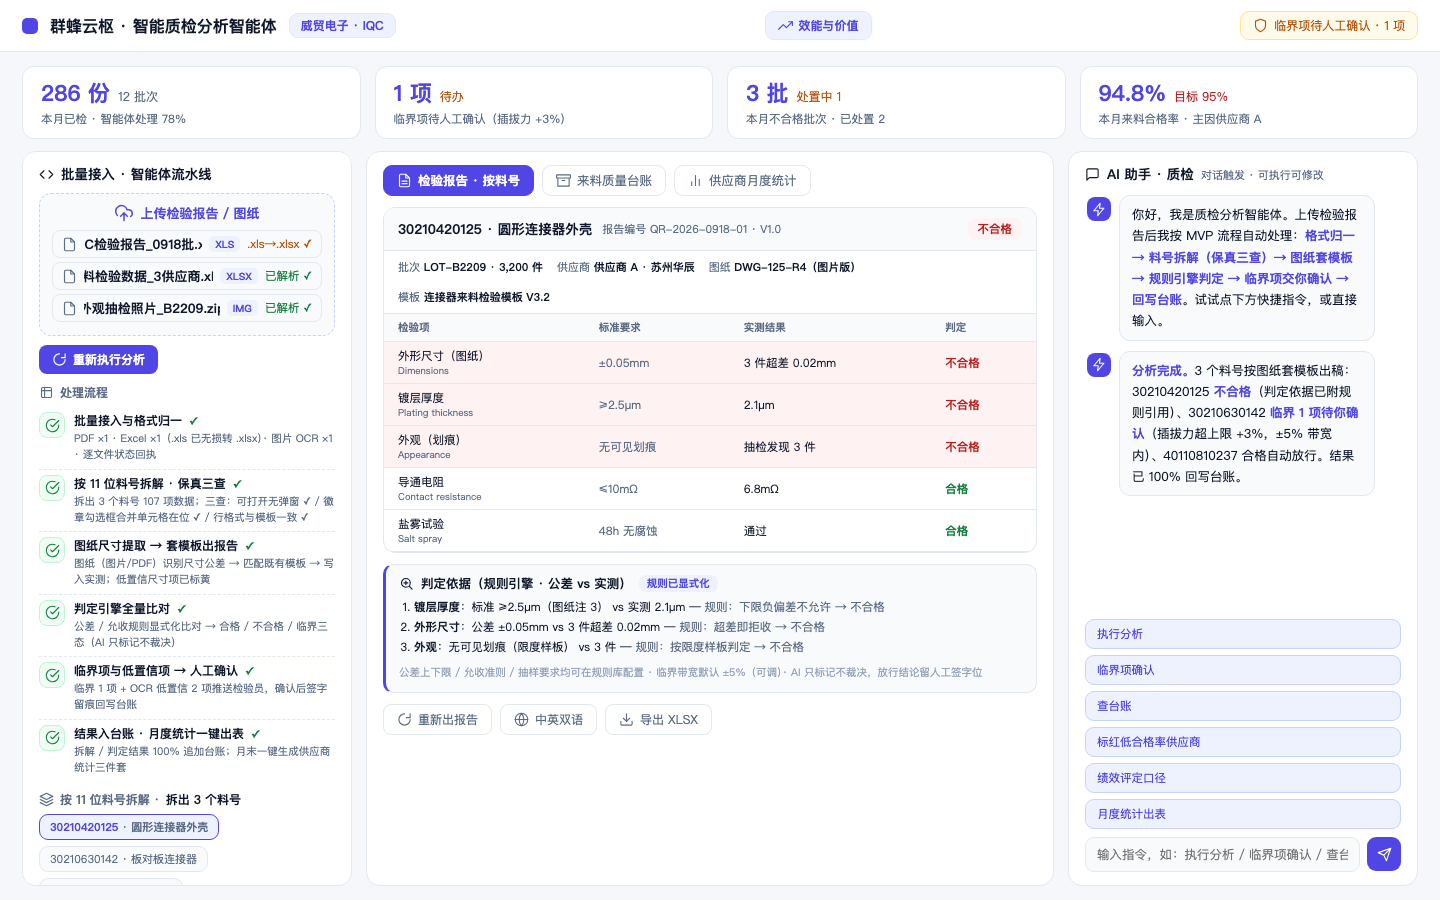
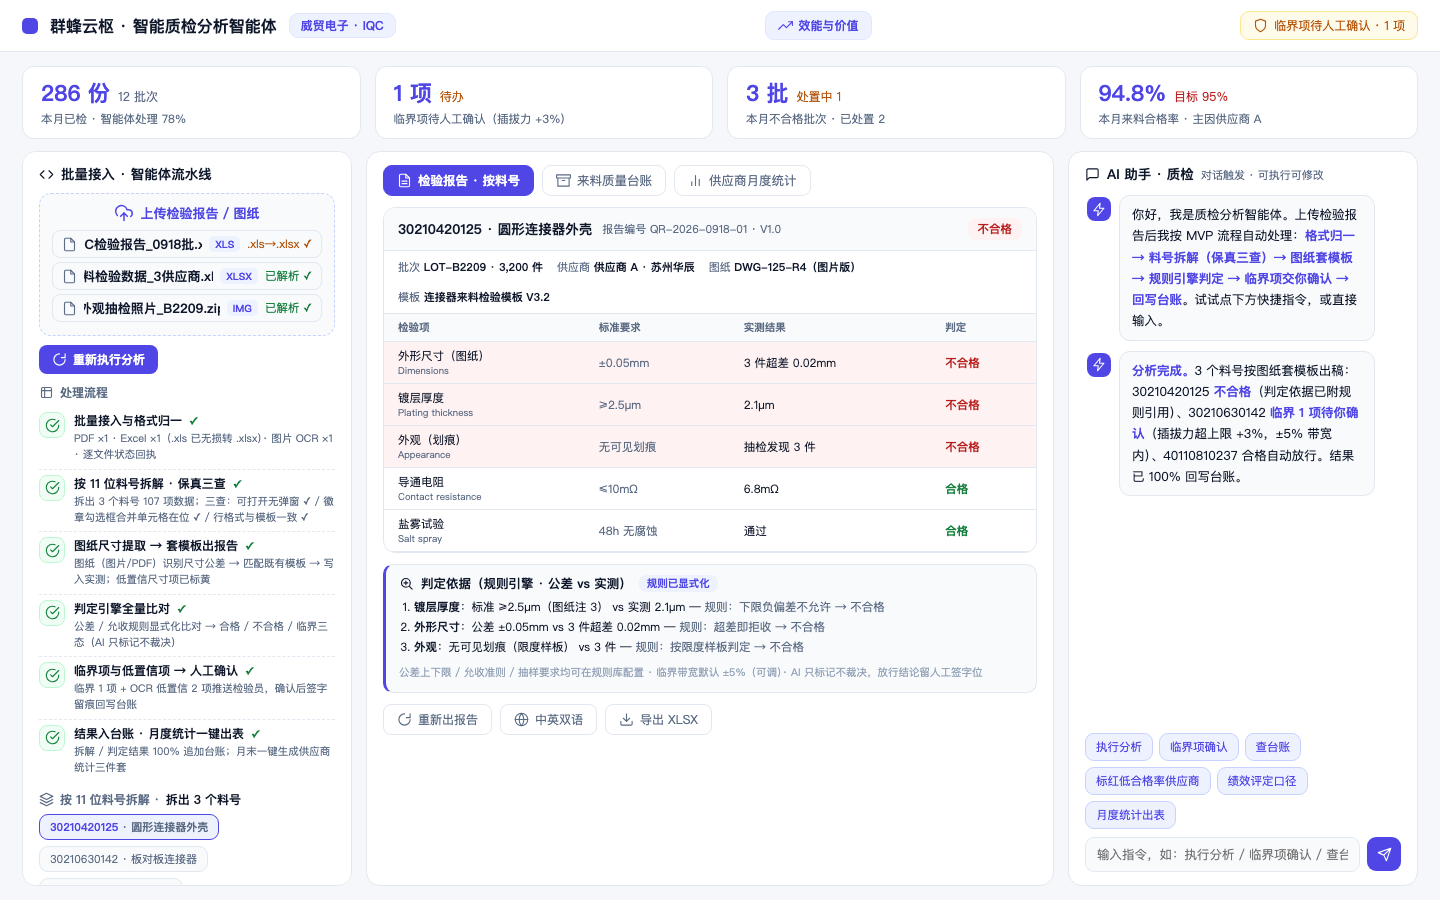
style(demos): AI 对话快捷标签按文字宽度紧凑流式布局，消息区增高（场景二/三统一）

Changed region(s): [[0.75, 0.6844, 0.9062, 0.9333]]

diff --git a/demos/scenario-3-delivery.html b/demos/scenario-3-delivery.html
@@ -129,8 +129,8 @@ body{background:var(--bg);color:var(--tx);height:100vh;display:flex;flex-directi
 .typing i{width:5px;height:5px;border-radius:3px;background:var(--ac2);animation:ty 1s infinite}
 .typing i:nth-child(2){animation-delay:.15s}.typing i:nth-child(3){animation-delay:.3s}
 @keyframes ty{40%{transform:translateY(-3px);opacity:.5}}
-.chipcol{display:flex;flex-direction:column;gap:6px;margin-bottom:8px}
-.qchip{font-size:11.5px;text-align:left;border:1px solid #C7D2FE;background:#EEF2FF;color:var(--ac);border-radius:9px;padding:6px 11px;cursor:pointer}
+.chipcol{display:flex;flex-wrap:wrap;gap:6px;margin-bottom:8px}
+.qchip{font-size:11.5px;text-align:left;border:1px solid #C7D2FE;background:#EEF2FF;color:var(--ac);border-radius:9px;padding:5px 10px;cursor:pointer;width:auto}
 .qchip:hover{background:#E0E7FF}
 .inrow{display:flex;gap:7px}
 .inrow input{flex:1;border:1px solid var(--bd);border-radius:9px;padding:8px 11px;font-size:12.5px;outline:none;color:var(--tx);background:var(--pan2)}

diff --git a/demos/scenario-2-qc.html b/demos/scenario-2-qc.html
@@ -175,8 +175,8 @@ table.ldb{width:100%;border-collapse:collapse;font-size:11px}
 .typing i{width:5px;height:5px;border-radius:3px;background:var(--ac2);animation:ty 1s infinite}
 .typing i:nth-child(2){animation-delay:.15s}.typing i:nth-child(3){animation-delay:.3s}
 @keyframes ty{40%{transform:translateY(-3px);opacity:.5}}
-.chipcol{display:flex;flex-direction:column;gap:6px;margin-bottom:8px}
-.qchip{font-size:11.5px;text-align:left;border:1px solid #C7D2FE;background:#EEF2FF;color:var(--ac);border-radius:9px;padding:6px 11px;cursor:pointer}
+.chipcol{display:flex;flex-wrap:wrap;gap:6px;margin-bottom:8px}
+.qchip{font-size:11.5px;text-align:left;border:1px solid #C7D2FE;background:#EEF2FF;color:var(--ac);border-radius:9px;padding:5px 10px;cursor:pointer;width:auto}
 .qchip:hover{background:#E0E7FF}
 .inrow{display:flex;gap:7px}
 .inrow input{flex:1;border:1px solid var(--bd);border-radius:9px;padding:8px 11px;font-size:12.5px;outline:none;color:var(--tx);background:var(--pan2)}
